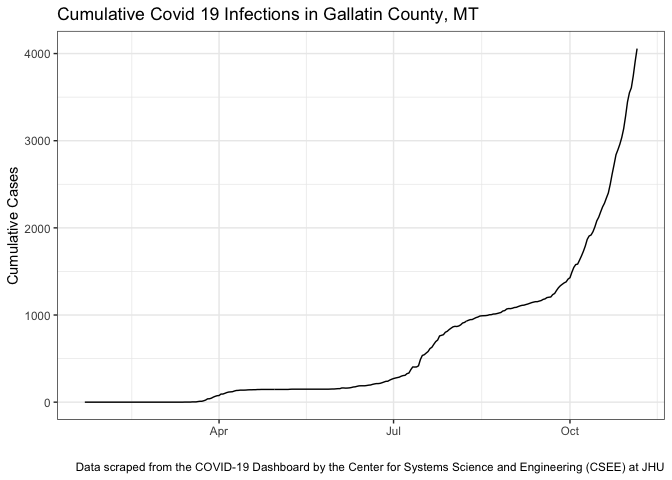
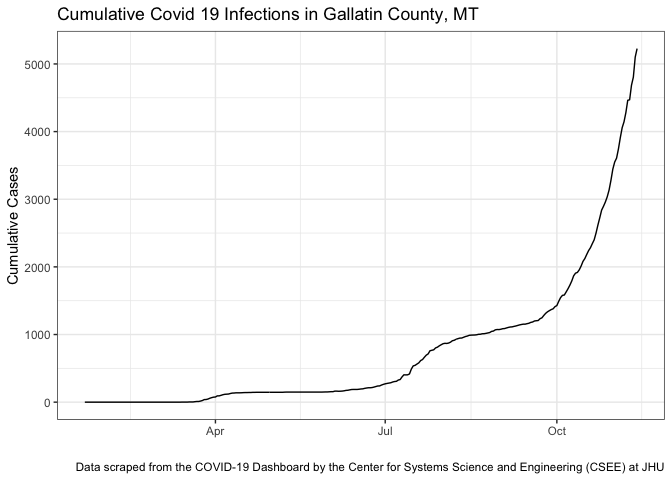
added weekly MSU totals as of Nov12

diff --git a/Scrape_MSU.md b/Scrape_MSU.md
@@ -55,9 +55,9 @@ Note this needs to be updated on Friday. The current report format (PDF)
 does not easily lend itself to data scraping.
 
 ``` r
-Gallatin_Surveillance <- tibble(day = c('9/3/2020','9/10/2020', '9/17/2020', '9/24/2020', '10/2/2020', '10/8/2020', '10/15/2020',"10/22/2020", '10/29/2020','11/05/2020'), 
-                                new_MSU_cases = c(NA,3,7,66,43,60,65,99,132,212), 
-                                cumulative_MSU_cases = c(38,41,48,114,157,217,282,381,513,725) ) %>%
+Gallatin_Surveillance <- tibble(day = c('9/3/2020','9/10/2020', '9/17/2020', '9/24/2020', '10/2/2020', '10/8/2020', '10/15/2020',"10/22/2020", '10/29/2020','11/05/2020','11/12/2020'), 
+                                new_MSU_cases = c(NA,3,7,66,43,60,65,99,132,212,265), 
+                                cumulative_MSU_cases = c(38,41,48,114,157,217,282,381,513,725,990) ) %>%
                     mutate(day = mdy(day), period = as.character(1:length(new_MSU_cases))) %>% 
   full_join(data_in, by = 'day')%>% arrange(day)  %>%
   fill(period, .direction = 'up') %>%
@@ -78,5 +78,7 @@ MSU %>% ggplot(aes(y = daily_integers, x = day)) + geom_line() +
   theme_bw() + ylab('Daily Positive Cases') + xlab('') +ggtitle('Estimated Daily Diagnosed Covid 19 Infections for Montana State University') + 
   labs(caption = 'Data interpolated from data scraped from the  COVID-19 Dashboard by the Center for Systems Science \n and Engineering  at JHU and Gallatin County Weekly COVID-19 Surveillance Reports \n Monthly MSU cases are allocated to individual days using the proportion of Gallatin County cases on that day of the week')
 ```
+
+    ## Warning: Removed 1 row(s) containing missing values (geom_path).
 
 ![](Scrape_MSU_files/figure-gfm/unnamed-chunk-2-1.png)<!-- -->
